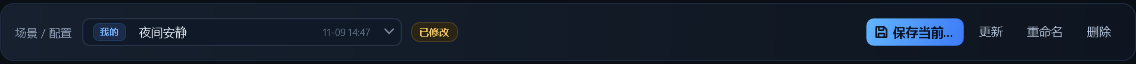
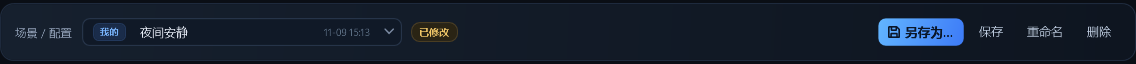
Rename profile actions to 另存为/保存
- 保存当前… → 另存为…（always creates a new 我的配置）
- 更新 → 保存（writes current edits back to the selected 我的配置）
- Update dialog/confirm/status text, dirty badge tooltip, ProfileNameWindow default title, docs copy table and screenshots

diff --git a/src/Atlas.App/Controls/SceneBar.xaml b/src/Atlas.App/Controls/SceneBar.xaml
@@ -101,19 +101,19 @@
                 <Button x:Name="SaveProfileButton" Style="{StaticResource PrimaryButton}"
                         Padding="11,5" Margin="0,0,4,0" Click="SaveProfileButton_Click"
                         ToolTipService.ShowOnDisabled="True"
-                        ToolTip="把当前所有通道的设置保存为一个新的「我的配置」，内置场景不受影响。">
+                        ToolTip="把当前所有通道的设置另存为一个新的「我的配置」，内置场景不受影响。">
                     <StackPanel Orientation="Horizontal">
                         <Path Data="{StaticResource IconSave}" Style="{StaticResource IconPath}"
                               Stroke="{StaticResource AccentTextBrush}" Width="12" Height="12"
                               Margin="0,0,5,0" VerticalAlignment="Center"/>
-                        <TextBlock Text="保存当前…" VerticalAlignment="Center"/>
+                        <TextBlock Text="另存为…" VerticalAlignment="Center"/>
                     </StackPanel>
                 </Button>
 
-                <Button x:Name="UpdateProfileButton" Content="更新" Style="{StaticResource ToolbarButton}"
+                <Button x:Name="UpdateProfileButton" Content="保存" Style="{StaticResource ToolbarButton}"
                         Padding="10,5" Margin="0,0,4,0" Click="UpdateProfileButton_Click"
                         ToolTipService.ShowOnDisabled="True"
-                        ToolTip="用当前设置覆盖所选「我的配置」（内置场景不可覆盖）。"/>
+                        ToolTip="把当前修改保存到所选「我的配置」（内置场景不可保存）。"/>
                 <Button x:Name="RenameProfileButton" Content="重命名" Style="{StaticResource ToolbarButton}"
                         Padding="10,5" Margin="0,0,4,0" Click="RenameProfileButton_Click"
                         ToolTipService.ShowOnDisabled="True"

diff --git a/src/Atlas.App/ProfileNameWindow.xaml b/src/Atlas.App/ProfileNameWindow.xaml
@@ -2,7 +2,7 @@
         xmlns="http://schemas.microsoft.com/winfx/2006/xaml/presentation"
         xmlns:x="http://schemas.microsoft.com/winfx/2006/xaml"
         xmlns:controls="clr-namespace:Atlas.App.Controls"
-        Title="保存配置" Height="280" Width="520"
+        Title="配置名称" Height="280" Width="520"
         Background="{StaticResource BgBrush}" Foreground="{StaticResource TextBrush}"
         FontFamily="{StaticResource UiFont}" FontSize="12.5"
         TextOptions.TextFormattingMode="Display"
@@ -22,7 +22,7 @@
                 <RowDefinition Height="*"/>
             </Grid.RowDefinitions>
 
-            <controls:TitleBar x:Name="TitleBarControl" Grid.Row="0" Title="保存配置"/>
+            <controls:TitleBar x:Name="TitleBarControl" Grid.Row="0" Title="配置名称"/>
 
             <Grid Grid.Row="1" Margin="20,16,20,18">
                 <Grid.RowDefinitions>

diff --git a/src/Atlas.App/MainWindow.xaml.cs b/src/Atlas.App/MainWindow.xaml.cs
@@ -986,8 +986,8 @@ public partial class MainWindow : Window
         try
         {
             var dialog = new ProfileNameWindow(
-                "保存配置",
-                "把当前所有通道设置保存为「我的配置」",
+                "另存为配置",
+                "把当前所有通道设置另存为一个新的「我的配置」",
                 "我的配置 " + DateTime.Now.ToString("MM-dd HH:mm"),
                 name => FanProfileService.ValidateProfileName(_config, name))
             {
@@ -1001,13 +1001,13 @@ public partial class MainWindow : Window
             _config.MarkApplied(null, profile.Id);
             _config.Save();
 
-            StatusText.Text = $"已保存配置「{profile.Name}」";
+            StatusText.Text = $"已另存为「{profile.Name}」";
             RefreshSceneBar();
         }
         catch (Exception ex)
         {
             LogCrash(ex);
-            MessageBox.Show($"保存配置失败：{ex.Message}", "Atlas",
+            MessageBox.Show($"另存为配置失败：{ex.Message}", "Atlas",
                 MessageBoxButton.OK, MessageBoxImage.Error);
         }
     }
@@ -1026,15 +1026,15 @@ public partial class MainWindow : Window
 
         CommitPendingEdits();
 
-        // 换硬件/少接风扇时，更新配置会把配置里那些当前不存在的通道永久丢掉，先提醒
+        // 换硬件/少接风扇时，保存会把配置里那些当前不存在的通道永久丢掉，先提醒
         var currentIds = new HashSet<string>(_config.Fans.Select(f => f.FanId), StringComparer.Ordinal);
         var missing = profile.Fans.Count(e => !currentIds.Contains(e.FanId));
         var missingNote = missing > 0
-            ? $"\n\n注意：该配置包含 {missing} 个当前不可用的通道，更新后它们会从配置中移除（设置无法恢复）。"
+            ? $"\n\n注意：该配置包含 {missing} 个当前不可用的通道，保存后它们会从配置中移除（设置无法恢复）。"
             : "";
 
         var answer = MessageBox.Show(
-            $"用当前设置覆盖配置「{profile.Name}」？（保存的配置内容会更新，名称不变）{missingNote}",
+            $"把当前修改保存到配置「{profile.Name}」？（配置内容会更新，名称不变）{missingNote}",
             "Atlas", MessageBoxButton.YesNo, MessageBoxImage.Question);
         if (answer != MessageBoxResult.Yes) return;
 
@@ -1042,13 +1042,13 @@ public partial class MainWindow : Window
         {
             FanProfileService.UpdateProfile(_config, profile);
             _config.Save();
-            StatusText.Text = $"已更新配置「{profile.Name}」";
+            StatusText.Text = $"已保存配置「{profile.Name}」";
             RefreshSceneBar();
         }
         catch (Exception ex)
         {
             LogCrash(ex);
-            MessageBox.Show($"更新配置失败：{ex.Message}", "Atlas",
+            MessageBox.Show($"保存配置失败：{ex.Message}", "Atlas",
                 MessageBoxButton.OK, MessageBoxImage.Error);
         }
     }

diff --git a/src/Atlas.App/Controls/SceneBar.xaml.cs b/src/Atlas.App/Controls/SceneBar.xaml.cs
@@ -242,8 +242,8 @@ public partial class SceneBar : UserControl
             SceneBarChoiceKind.BuiltInScene =>
                 "内置场景只读：当前改动需要先复制为「我的配置」才能保存。",
             SceneBarChoiceKind.Profile =>
-                "当前「我的配置」有未保存的修改，点「更新」保存。",
-            _ => "当前方案有未保存的修改，点「保存当前…」另存为「我的配置」。",
+                "当前「我的配置」有未保存的修改，点「保存」保存到该配置。",
+            _ => "当前方案有未保存的修改，点「另存为…」保存为「我的配置」。",
         };
     }
 

diff --git a/docs/fan-profiles-design.md b/docs/fan-profiles-design.md
@@ -11,7 +11,7 @@
 | --- | --- | --- | --- | --- |
 | L1 内置场景 | **内置场景 · 静音 / 均衡 / 性能** | 所有未锁定风扇 | ❌ 只读 | 程序内置 |
 | L2 曲线模板 | **模板 · 静音 / 均衡 / 性能** | 单个风扇的曲线 | ❌ 只读 | 程序内置（与 L1 同源） |
-| L3 我的配置 | **我的配置 · 用户命名** | 所有风扇的整套热设置 | ✅ 可改名/更新/删除 | 用户「保存当前为配置」 |
+| L3 我的配置 | **我的配置 · 用户命名** | 所有风扇的整套热设置 | ✅ 可另存为/保存/改名/删除 | 用户「另存为…」或编辑后「保存」 |
 | L4 当前方案 | **当前方案** | 实时生效的草稿 | ✅ 随时编辑 | 应用 L1/L3 或手工调整后得到 |
 
 四层关系：
@@ -20,7 +20,7 @@
 内置场景（一键） ──套用到所有未锁定通道──▶ 当前方案（可编辑的草稿）
 曲线模板（单扇导入值）──套用到单通道──▶ 当前方案
 我的配置（用户快照）──套用到所有未锁定通道──▶ 当前方案
-当前方案 ──「保存当前为配置」──▶ 我的配置（新的或更新）
+当前方案 ──「另存为…」/「保存」──▶ 我的配置（新的或更新）
 ```
 
 记忆点一句话：**预设/模板永远只读，能编辑的永远是「当前方案」，想留住修改就「保存为我的配置」。**
@@ -70,7 +70,7 @@ v0.2 已有：
 1. **词汇三分，不混用**：只读的叫「内置场景」或「模板」；用户的可写对象只叫「我的配置」；正在编辑的只叫「当前方案」。UI 主标签中不再出现笼统的「预设」二字。
 2. **视觉类型标识**：统一下拉列表里，内置场景带「内置 · 只读」徽标，我的配置带「我的」徽标和更新时间；只读对象没有可用的「重命名/删除」入口（按钮禁用）。
 3. **行为规则是硬约束，不靠自觉**：
-   - 「保存当前…」永远生成/更新**我的配置**，绝不会覆盖内置场景；
+   - 「另存为…」永远生成**新的我的配置**，绝不会覆盖内置场景；「保存」只把当前修改写回当前选中的「我的配置」；
    - 内置场景不可编辑、不可删除；
    - 配置命名禁止与内置场景重名（静音 / 均衡 / 性能 / BIOS 默认），提示语明确说「这是内置场景名，为避免混淆请换一个名字」。这一条直接消除「我是不是把内置的静音改掉了」的担心。
 4. **「场景 / 配置」下拉框就是状态本身**：当前选中项即当前来源，内置场景项带「内置 · 只读」类型徽标，我的配置项带「我的」徽标和更新时间。选中即切换，不再需要单独的「应用」按钮；只有当前「我的配置」有未保存修改时，才在旁显示一个小号琥珀色「已修改」徽标。
@@ -137,7 +137,7 @@ v0.2 已有：
 - **失效温度源自愈**：场景/配置带回本机不存在的温度源 Id 时，应用后自动回退到默认 CPU 温度源，避免引擎在 5 秒后全速兜底。
 - **指纹只算热设置**：改备注名、勾选锁定不会让状态变成「已修改」；改模式/曲线/温度源才会。
 - **未归档的草稿也有基线**：首次加载/旧配置升级时，把当时的设置记为基线。之后用户手工调整（哪怕还没保存成配置）也会被判定为「已修改」，套用场景/配置时先确认，不会静默覆盖。
-- **应用即保存**：套用场景/配置、保存/更新配置后立即写 `config.json`，与现有自动保存习惯一致。
+- **应用即保存**：切换场景/配置、保存配置/另存为后立即写 `config.json`，与现有自动保存习惯一致。
 
 ## 5. 交互设计
 
@@ -145,15 +145,15 @@ v0.2 已有：
 
 ```
 ┌──────────────────────────────────────────────────────────────────────────────────────┐
-│ 场景 / 配置  [● 内置·只读 静音 ▾]  [已修改]   [保存当前…]  [更新] [重命名] [删除]        │
+│ 场景 / 配置  [● 内置·只读 静音 ▾]  [已修改]   [另存为…]  [保存] [重命名] [删除]        │
 └──────────────────────────────────────────────────────────────────────────────────────┘
 ```
 
 - **只保留一个下拉框**：内置场景项带「内置 · 只读」类型徽标，我的配置项带「我的」徽标和更新时间；当前没有来源时显示「未归档」占位项。**选中即切换**，没有单独的「应用」按钮，也没有重复的「当前方案」状态文字。
-- 只有当前「我的配置」有未保存修改时，才在下拉框旁显示一个小号琥珀色「已修改」徽标（tooltip 提示可点「更新」保存）；内置场景不可编辑，永远不会出现「已修改的内置场景」。
-- 「保存当前…」：把当前设置保存为新的「我的配置」；对内置场景来说就是「复制成可编辑配置」。
-- 「更新 / 重命名 / 删除」：只对选中的「我的配置」可用；内置场景项与未归档占位项禁用。
-- 表格标题栏移除原来的「保存配置 / 保存修改」按钮：保存动作统一由「保存当前…」承担，避免两个「保存」语义打架。
+- 只有当前「我的配置」有未保存修改时，才在下拉框旁显示一个小号琥珀色「已修改」徽标（tooltip 提示可点「保存」写回）；内置场景不可编辑，永远不会出现「已修改的内置场景」。
+- 「另存为…」：把当前设置另存为一个新的「我的配置」；对内置场景来说就是「复制成可编辑配置」。
+- 「保存 / 重命名 / 删除」：只对选中的「我的配置」可用；内置场景项与未归档占位项禁用。「保存」把当前修改写回该配置（不新建）。
+- 表格标题栏移除原来的「保存配置 / 保存修改」按钮：保存动作统一由「另存为…」/「保存」承担，避免两个「保存」语义打架。
 - 切换有未保存修改的「我的配置」或未归档草稿时，先确认是否丢弃；取消则下拉选择回退到当前项。
 
 三种状态的离屏渲染（1316 宽，合成数据；1136 最小宽度也已回归无裁切）：
@@ -184,8 +184,8 @@ v0.2 已有：
 
 1. **新机器，一键安静**：打开 Atlas → 下拉选「内置场景 · 静音」→ 选中即切换，所有未锁定通道变成温度曲线 + 静音曲线 → 状态栏显示已应用 N 个。
 2. **只想让尾风扇安静**：点某行「编辑…」→ 点模板「静音」→ 拖低 60°C 点 → 确定。该风扇曲线列变「自定义曲线」，其他通道不变；内置模板不变。
-3. **保存自己的方案**：调好所有风扇 → 「保存当前…」→ 输入「夜间安静」→ 下拉里多出该项并自动选中。以后从下拉选它即可一键回到该配置。
-4. **在配置上继续改**：当前为「夜间安静」→ 把 Fan #2 改成固定 40% → 出现「已修改」徽标 → 可选择「更新」覆盖该配置，或「保存当前…」另存为新配置（原配置保留）。
+3. **保存自己的方案**：调好所有风扇 → 「另存为…」→ 输入「夜间安静」→ 下拉里多出该项并自动选中。以后从下拉选它即可一键回到该配置。
+4. **在配置上继续改**：当前为「夜间安静」→ 把 Fan #2 改成固定 40% → 出现「已修改」徽标 → 点「保存」写回该配置，或点「另存为…」另建一个新配置（原配置保留）。
 5. **从预设开始改**：下拉选「内置场景 · 静音」→ 直接改模式/曲线 → 被拦截 → 提示是否复制为「我的配置」→ 复制后继续编辑；原内置场景始终不变。
 
 ## 6. 边界、安全与失败处理
@@ -195,7 +195,7 @@ v0.2 已有：
 - **切换前确认**：当前「我的配置」有未保存修改、或未归档草稿被手工改过时，切换场景/配置前确认，避免丢改动；内置场景本身只读，不存在「切换丢失预设修改」。
 - **没有可接管通道时**：全部通道被锁定、或配置里没有任何可用通道时，选择场景/配置会回退下拉并明确提示「未应用」，不会出现「已应用 0 个通道」这种假成功。
 - **预设编辑拦截**：内置场景生效时，模式/温度源/固定 PWM/曲线编辑/复制曲线都会被拦截并引导先复制为「我的配置」；备注名与锁定不拦截（锁定本身是安全属性，允许随时设置）。锁定通道的热设置同样不修改，保证内置场景期间不会出现「预设 + 已修改」。
-- **落盘时机（有意取舍）**：按用户反馈移除了独立的「保存修改」按钮；配置在切换场景/配置、保存/更新配置、恢复 BIOS 默认、退出应用时写盘。极端崩溃可能丢失最后一段尚未归档的修改，这是简化 UI 的代价，后续可用「变更后防抖自动保存」补齐。
+- **落盘时机（有意取舍）**：按用户反馈移除了独立的「保存修改」按钮；配置在切换场景/配置、保存配置/另存为、恢复 BIOS 默认、退出应用时写盘。极端崩溃可能丢失最后一段尚未归档的修改，这是简化 UI 的代价，后续可用「变更后防抖自动保存」补齐。
 - **恢复 BIOS 默认后**：清空当前来源，并把当时的热设置记为基线（显示为「自定义方案（未归档）」，而不是「已修改」）。
 - **删除当前配置后**：当前设置保持不动，来源清空、基线同步为当前值（干净未归档）。
 - **命名规则**：1–24 字符；禁止与内置场景同名；禁止与已有配置同名（大小写不敏感）；拒绝控制字符与零宽等不可见字符；连续空白会折叠（避免「BIOS  默认」绕过保留名）；自动 trim。
@@ -251,22 +251,23 @@ dotnet run --project src/Atlas.Cli -- preset-selftest
 | 内置场景类型徽标 | 内置 · 只读 |
 | 我的配置类型徽标 | 我的 |
 | 未归档占位项 | 未归档 · 当前自定义方案 |
-| 已修改徽标 tooltip | 当前「我的配置」有未保存修改，点「更新」保存。 |
-| 保存按钮 | 保存当前… |
-| 保存对话框标题 | 保存配置 |
-| 保存对话框说明 | 把当前所有通道设置保存为「我的配置」。内置场景不会被修改。 |
+| 已修改徽标 tooltip | 当前「我的配置」有未保存修改，点「保存」保存到该配置。 |
+| 另存为按钮 | 另存为… |
+| 保存按钮（写回） | 保存 |
+| 另存为对话框标题 | 另存为配置 |
+| 另存为对话框说明 | 把当前所有通道设置另存为一个新的「我的配置」。内置场景不会被修改。 |
 | 预设编辑拦截 | 内置场景「X」是只读的，不能直接修改。是否复制为「我的配置」后继续编辑？ |
 | 复制对话框标题 | 复制为我的配置 |
 | 复制默认名 | 静音 · 我的 |
 | 切换确认 | 当前方案有未保存的修改，切换会丢弃这些修改（已保存的「我的配置」不受影响）。继续吗？ |
-| 更新确认 | 用当前设置覆盖配置「X」？内置场景不受影响。 |
+| 保存确认（写回） | 把当前修改保存到配置「X」？（配置内容会更新，名称不变） |
 | 删除确认 | 删除配置「X」？当前方案设置不会改变。 |
 | 曲线编辑器模板区 | 模板 · 只读 |
 | 曲线编辑器说明 | 模板只读：点击只套用到当前曲线；继续在画布上调整只会改变本通道设置，不会修改模板。 |
 | 曲线摘要（匹配） | 当前曲线：与「静音」模板一致 |
 | 曲线摘要（自定义） | 当前曲线：自定义（未套用模板） |
 | 表格曲线列 | 模板 · 静音 / 自定义曲线 |
-| 底部操作反馈 | 已应用 N 个通道（内置场景「静音」）/ 已复制为「静音 · 我的」/ 已保存配置「夜间安静」 |
+| 底部操作反馈 | 已应用 N 个通道（内置场景「静音」）/ 已复制为「静音 · 我的」/ 已另存为「夜间安静」/ 已保存配置「夜间安静」 |
 
 ## 11. 一句话回答你的三个疑虑
 
@@ -289,7 +290,7 @@ dotnet run --project src/Atlas.Cli -- preset-selftest
 | MinWidth=1180 时状态文字被裁切、下拉框时间被截断 | 状态 hint 移入 tooltip，下拉框只显示配置名（更新时间放 tooltip），场景/配置区宽度收紧 |
 | 基线在硬件枚举前建立，全新安装/新增通道首启误报「已修改」 | 基线改到 `BuildRows()` 之后建立；已有会话基线不被覆盖，跨重启的真实修改仍保留 |
 | 温度源自动修复改 SourceId 后基线过期，套用后立刻显示「已修改」 | 应用并修复温度源后刷新基线；修复逻辑跳过锁定通道 |
-| 「更新」配置在换硬件后会静默丢弃缺失通道设置 | 更新确认框提示「N 个通道当前不可用，更新后会从配置移除」 |
+| 「保存」配置在换硬件后会静默丢弃缺失通道设置 | 保存确认框提示「N 个通道当前不可用，保存后会从配置移除」 |
 | `Match`/`Fingerprint` 对未 Normalize 的 null 项仍可能 NRE | 两处都过滤 null 风扇/曲线点（Load 路径本已 Normalize，双保险） |
 
 ## 13. 真实试用后的 UX 改版（v2：选择即切换）
@@ -302,7 +303,7 @@ dotnet run --project src/Atlas.Cli -- preset-selftest
 | 「当前方案」文字提示多余 | 状态 chip 重复表达下拉选中项 | 去掉状态 chip，只保留「我的配置有未保存修改」时的小号「已修改」徽标 |
 | 预设应放进同一个下拉，用类型区分、不可修改 | 场景按钮与配置下拉分成两个控件，用户要理解两套入口 | 统一下拉：内置场景带「内置 · 只读」徽标，我的配置带「我的」徽标；一个列表切换 |
 | 选中预设后编辑应直接拦截，并提示先复制再改 | 允许在内置场景基础上改出「已修改」，概念上像改了预设 | 模式/温度源/固定 PWM/曲线编辑/复制曲线全部拦截，提示复制为「我的配置」后再编辑 |
-| 表格「保存修改」多余 | 与「保存当前…」职责重叠 | 删除该按钮；保存统一由「保存当前…」承担 |
+| 表格「保存修改」多余 | 与「另存为…」职责重叠 | 删除该按钮；保存统一由「另存为…」/「保存」承担 |
 
 v2 的规矩仍然只有一句：**只读的永远是预设，能编辑的只有「我的配置」，想改预设就先复制。**
 

diff --git a/docs/personal-build-plan.md b/docs/personal-build-plan.md
@@ -104,7 +104,7 @@ run-atlas.cmd
 | 版本 | 内容 |
 | --- | --- |
 | v0.2（已完成） | 固定 PWM 模式、曲线编辑器、锁定通道（防止误控水泵）、自动保存、开机自启（计划任务最高权限）、启动恢复默认、看门狗 |
-| v0.3（分支 `fan-profiles` 原型） | 场景 / 配置切换：内置场景（静音 / 均衡 / 性能，只读一键应用）、单扇只读曲线模板、用户命名的「我的配置」（保存 / 更新 / 重命名 / 删除）、当前方案来源与「已修改」提示；设计见 [风扇预设 / 场景 / 配置设计](fan-profiles-design.md) |
+| v0.3（分支 `fan-profiles` 原型） | 场景 / 配置切换：统一下拉（内置场景静音 / 均衡 / 性能只读 + 用户命名的「我的配置」），选择即切换；内置预设只读，编辑时提示先复制为「我的配置」；「我的配置」支持另存为 / 保存 / 重命名 / 删除；单扇只读曲线模板；设计见 [风扇预设 / 场景 / 配置设计](fan-profiles-design.md) |
 | 后续 | 传感器日志、托盘、配置导入导出、按程序自动切换场景 |
 | 不做 | 灯效控制（Armoury Crate 负责） |
 
